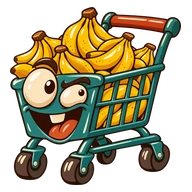
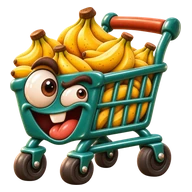
Donne un rendu 3D à la mascotte Bananani

diff --git a/src/routes/login/+page.svelte b/src/routes/login/+page.svelte
@@ -11,7 +11,7 @@
 <div class="min-h-[60vh] flex items-center justify-center px-4">
   <div class="w-full max-w-md">
     <header class="text-center mb-10">
-      <img src="/bananani-mascot.webp" alt="" width="96" height="96" class="mx-auto mb-3 h-20 w-20 md:h-24 md:w-24" />
+      <img src="/bananani-mascot.webp?v=3" alt="" width="96" height="96" class="mx-auto mb-3 h-20 w-20 md:h-24 md:w-24" />
       <div class="h-eyebrow mb-2">Bananani</div>
       <h1 class="h-display text-5xl md:text-6xl italic">Benvenuto</h1>
       <p class="text-sepia italic mt-3">Connecte-toi pour accéder à ta cucina.</p>

diff --git a/src/app.html b/src/app.html
@@ -2,8 +2,8 @@
 <html lang="fr">
   <head>
     <meta charset="utf-8" />
-    <link rel="icon" href="%sveltekit.assets%/favicon.ico?v=2" />
-    <link rel="apple-touch-icon" href="%sveltekit.assets%/apple-touch-icon.png?v=2" />
+    <link rel="icon" href="%sveltekit.assets%/favicon.ico?v=3" />
+    <link rel="apple-touch-icon" href="%sveltekit.assets%/apple-touch-icon.png?v=3" />
     <link rel="manifest" href="%sveltekit.assets%/manifest.webmanifest" />
     <meta name="viewport" content="width=device-width, initial-scale=1, viewport-fit=cover" />
     <meta name="theme-color" content="#F4ECDB" />

diff --git a/src/routes/admin/login/+page.svelte b/src/routes/admin/login/+page.svelte
@@ -10,7 +10,7 @@
 <div class="min-h-[60vh] flex items-center justify-center px-4">
   <div class="w-full max-w-md">
     <header class="text-center mb-10">
-      <img src="/bananani-mascot.webp" alt="" width="96" height="96" class="mx-auto mb-3 h-20 w-20 md:h-24 md:w-24" />
+      <img src="/bananani-mascot.webp?v=3" alt="" width="96" height="96" class="mx-auto mb-3 h-20 w-20 md:h-24 md:w-24" />
       <div class="h-eyebrow mb-2">Bananani</div>
       <h1 class="h-display text-5xl md:text-6xl italic">Back-office</h1>
       <p class="text-sepia italic mt-3">Gestion des comptes utilisateurs.</p>

diff --git a/src/routes/+layout.svelte b/src/routes/+layout.svelte
@@ -107,7 +107,7 @@
           onclick={onLogoClick}
           onkeydown={onLogoKeydown}
         >
-          <img src="/bananani-mascot.webp" alt="" width="48" height="48" class="shrink-0 pointer-events-none" draggable="false" />
+          <img src="/bananani-mascot.webp?v=3" alt="" width="48" height="48" class="shrink-0 pointer-events-none" draggable="false" />
           <span class="font-display italic text-3xl md:text-[28px] leading-none text-umber tracking-tight">
             Bananani
           </span>
